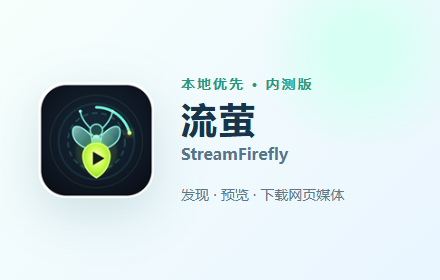
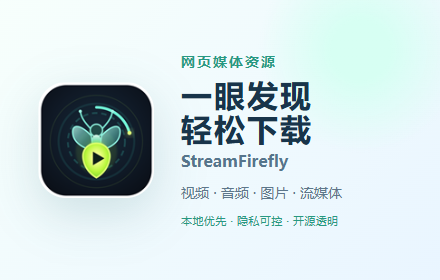
优化商店宣传文案与素材

Changed region(s): [[0.4136, 0.2, 0.7091, 0.6286], [0.4136, 0.6571, 0.7977, 0.7429], [0.4136, 0.7714, 0.7682, 0.8286]]

diff --git a/store-assets/screenshot-popup.html b/store-assets/screenshot-popup.html
@@ -16,7 +16,8 @@
     .mark { display: inline-flex; align-items: center; gap: 10px; color: #238a76; font-size: 15px; font-weight: 700; letter-spacing: 2px; }
     .mark img { width: 52px; height: 52px; border-radius: 13px; }
     h1 { margin: 24px 0 16px; font-size: 52px; line-height: 1.14; letter-spacing: 2px; }
-    .lead { margin: 0 0 30px; color: #647f91; font-size: 19px; line-height: 1.8; }
+    .lead { margin: 0 0 18px; color: #647f91; font-size: 19px; line-height: 1.8; }
+    .scope { margin: 0 0 28px; color: #238a76; font-size: 16px; font-weight: 700; letter-spacing: 1px; }
     ul { margin: 0; padding: 0; list-style: none; display: grid; gap: 17px; }
     li { display: flex; gap: 12px; align-items: center; color: #36566b; font-size: 17px; }
     li::before { content: "✓"; display: grid; place-items: center; width: 25px; height: 25px; border-radius: 50%; color: white; background: #35a78f; font-weight: 800; }
@@ -31,15 +32,16 @@
     </section>
     <section>
       <div class="mark"><img src="../extension/icon128.png" alt="">流萤 STREAMFIREFLY</div>
-      <h1>网页媒体<br>一眼发现，安心下载</h1>
-      <p class="lead">本地优先的媒体识别、预览与下载体验。<br>信息清晰，任务进度真实可见。</p>
+      <h1>网页媒体资源<br>一眼发现，轻松下载</h1>
+      <p class="lead">自动识别网页媒体<br>支持封面预览，点击即可播放</p>
+      <p class="scope">视频 · 音频 · 图片 · 流媒体</p>
       <ul>
         <li>识别视频、音频、图片与流媒体</li>
         <li>查看封面、大小、分辨率与时长</li>
         <li>自定义文件名、保存路径与下载并发</li>
         <li>任务记录与本地文件分别管理</li>
       </ul>
-      <div class="beta">PRIVATE BETA · WINDOWS + CHROME</div>
+      <div class="beta">本地优先 · 隐私可控 · 开源透明</div>
     </section>
   </main>
 </body>

diff --git a/store-assets/promo-small.html b/store-assets/promo-small.html
@@ -11,19 +11,21 @@
     main { height: 100%; padding: 34px 38px; display: flex; align-items: center; gap: 27px; }
     .icon { width: 116px; height: 116px; border-radius: 28px; filter: drop-shadow(0 16px 24px rgba(37, 106, 112, .18)); }
     .eyebrow { color: #279982; font-size: 14px; font-weight: 700; letter-spacing: 2px; }
-    h1 { margin: 8px 0 6px; font-size: 36px; line-height: 1; letter-spacing: 2px; }
+    h1 { margin: 7px 0 5px; font-size: 31px; line-height: 1.08; letter-spacing: 2px; }
     .en { color: #55758c; font-size: 16px; font-weight: 600; }
-    p { margin: 20px 0 0; color: #5d778b; font-size: 14px; line-height: 1.6; white-space: nowrap; }
+    p { margin: 11px 0 0; color: #5d778b; font-size: 14px; line-height: 1.6; white-space: nowrap; }
+    .trust { margin-top: 8px; color: #279982; font-size: 11px; letter-spacing: .4px; }
   </style>
 </head>
 <body>
   <main>
     <img class="icon" src="../extension/icon128.png" alt="">
     <section>
-      <div class="eyebrow">本地优先 · 内测版</div>
-      <h1>流萤</h1>
+      <div class="eyebrow">网页媒体资源</div>
+      <h1>一眼发现<br>轻松下载</h1>
       <div class="en">StreamFirefly</div>
-      <p>发现 · 预览 · 下载网页媒体</p>
+      <p>视频 · 音频 · 图片 · 流媒体</p>
+      <div class="trust">本地优先 · 隐私可控 · 开源透明</div>
     </section>
   </main>
 </body>
